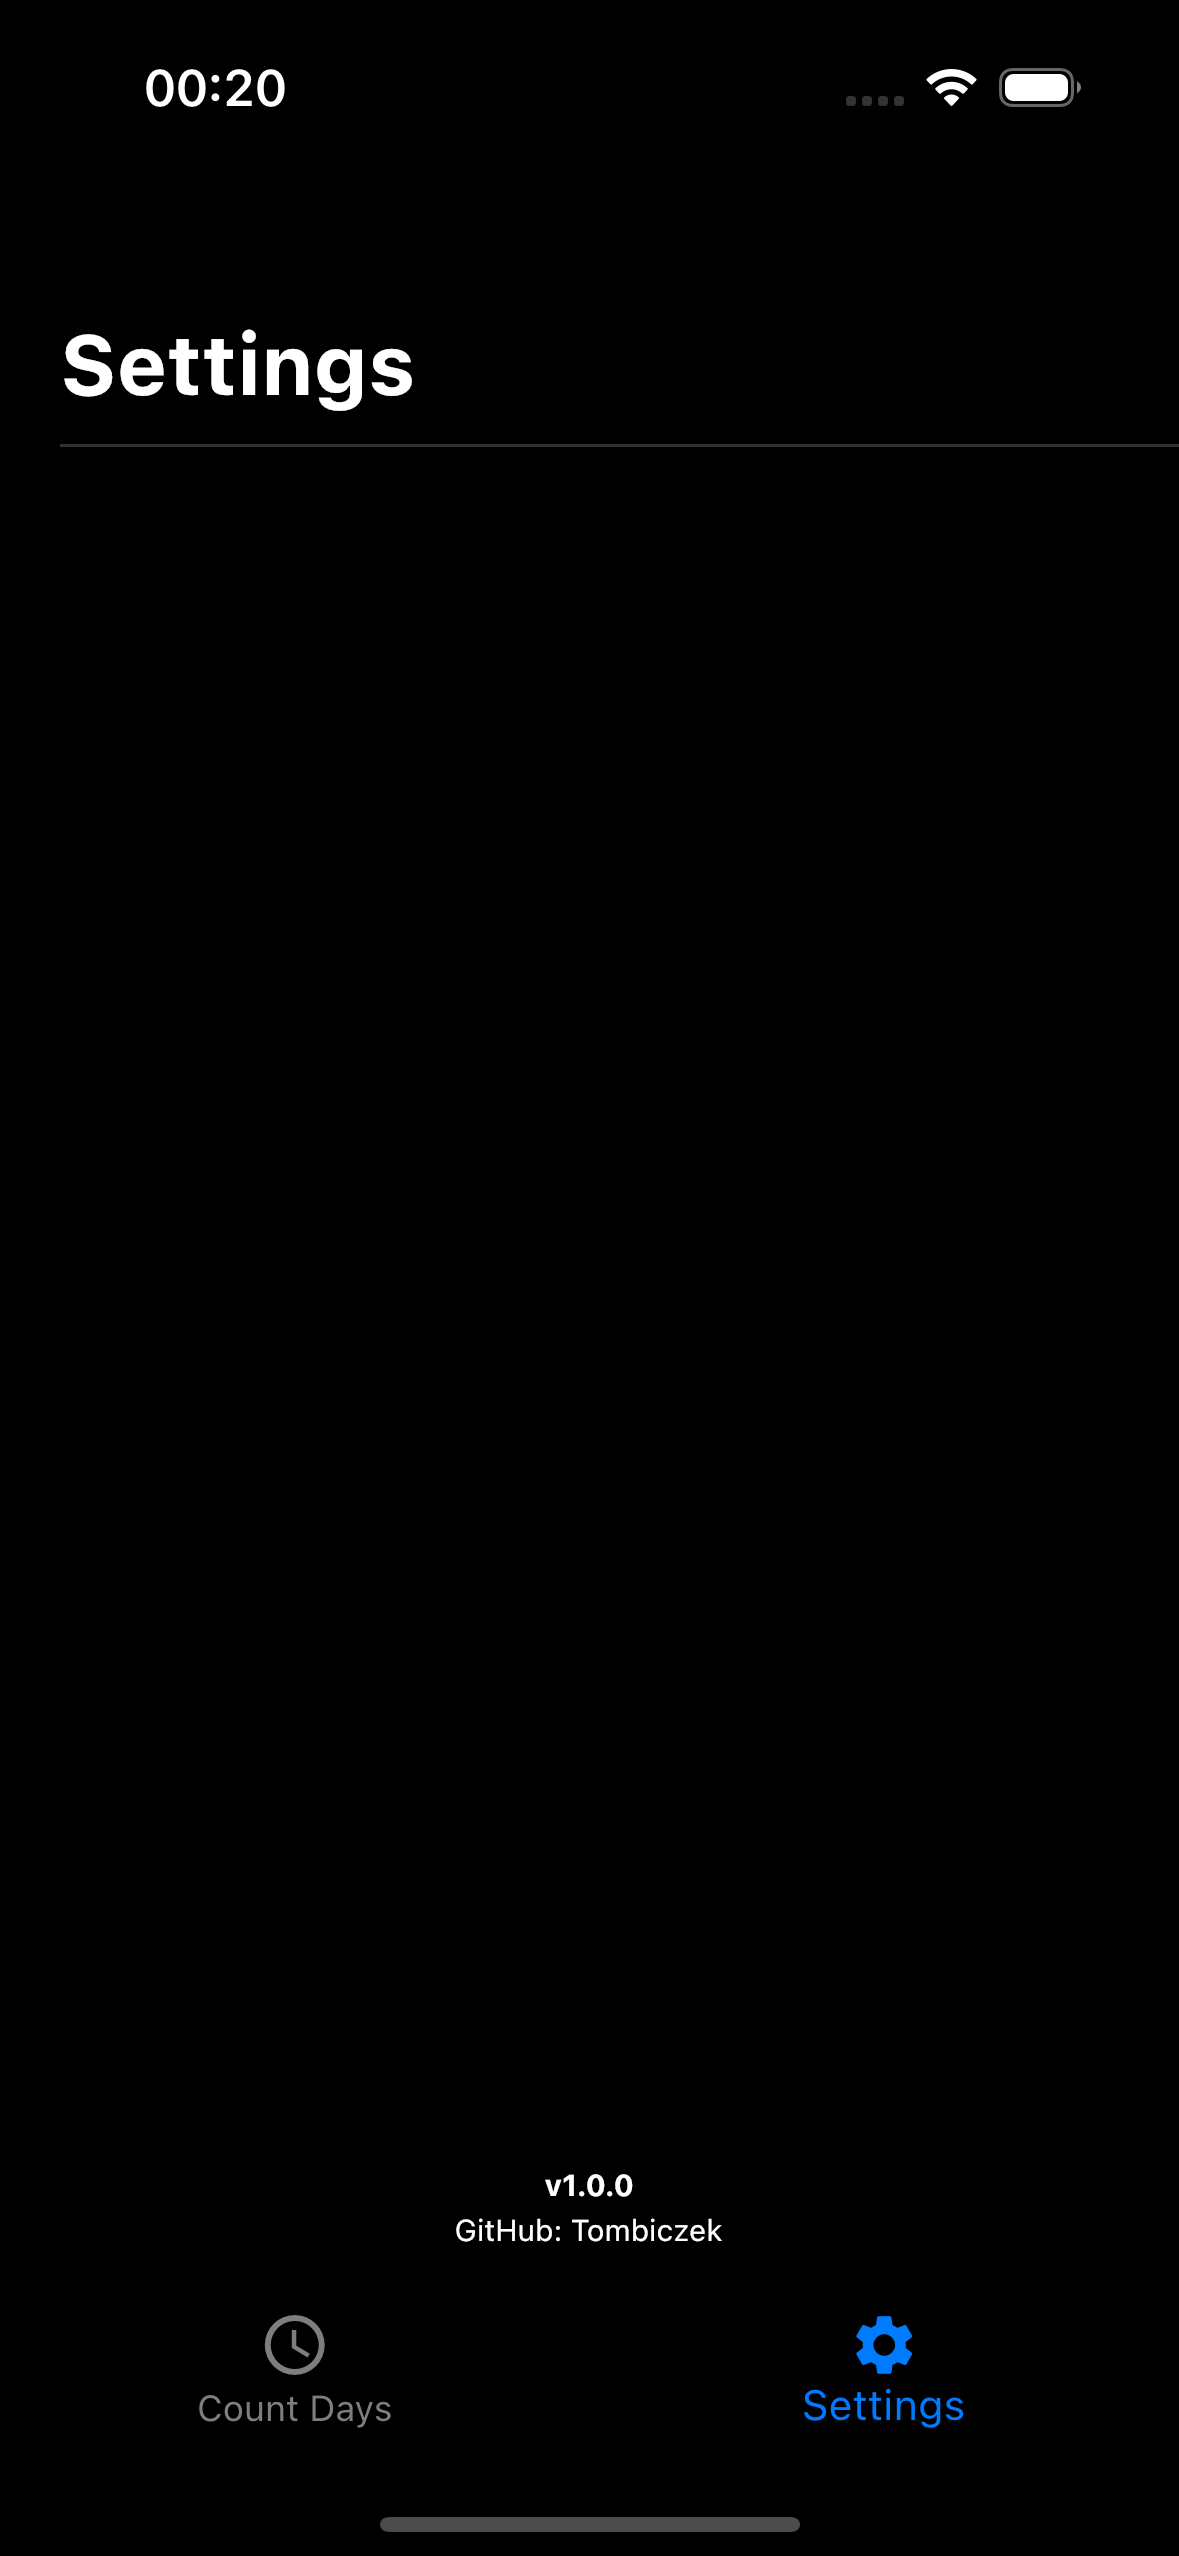
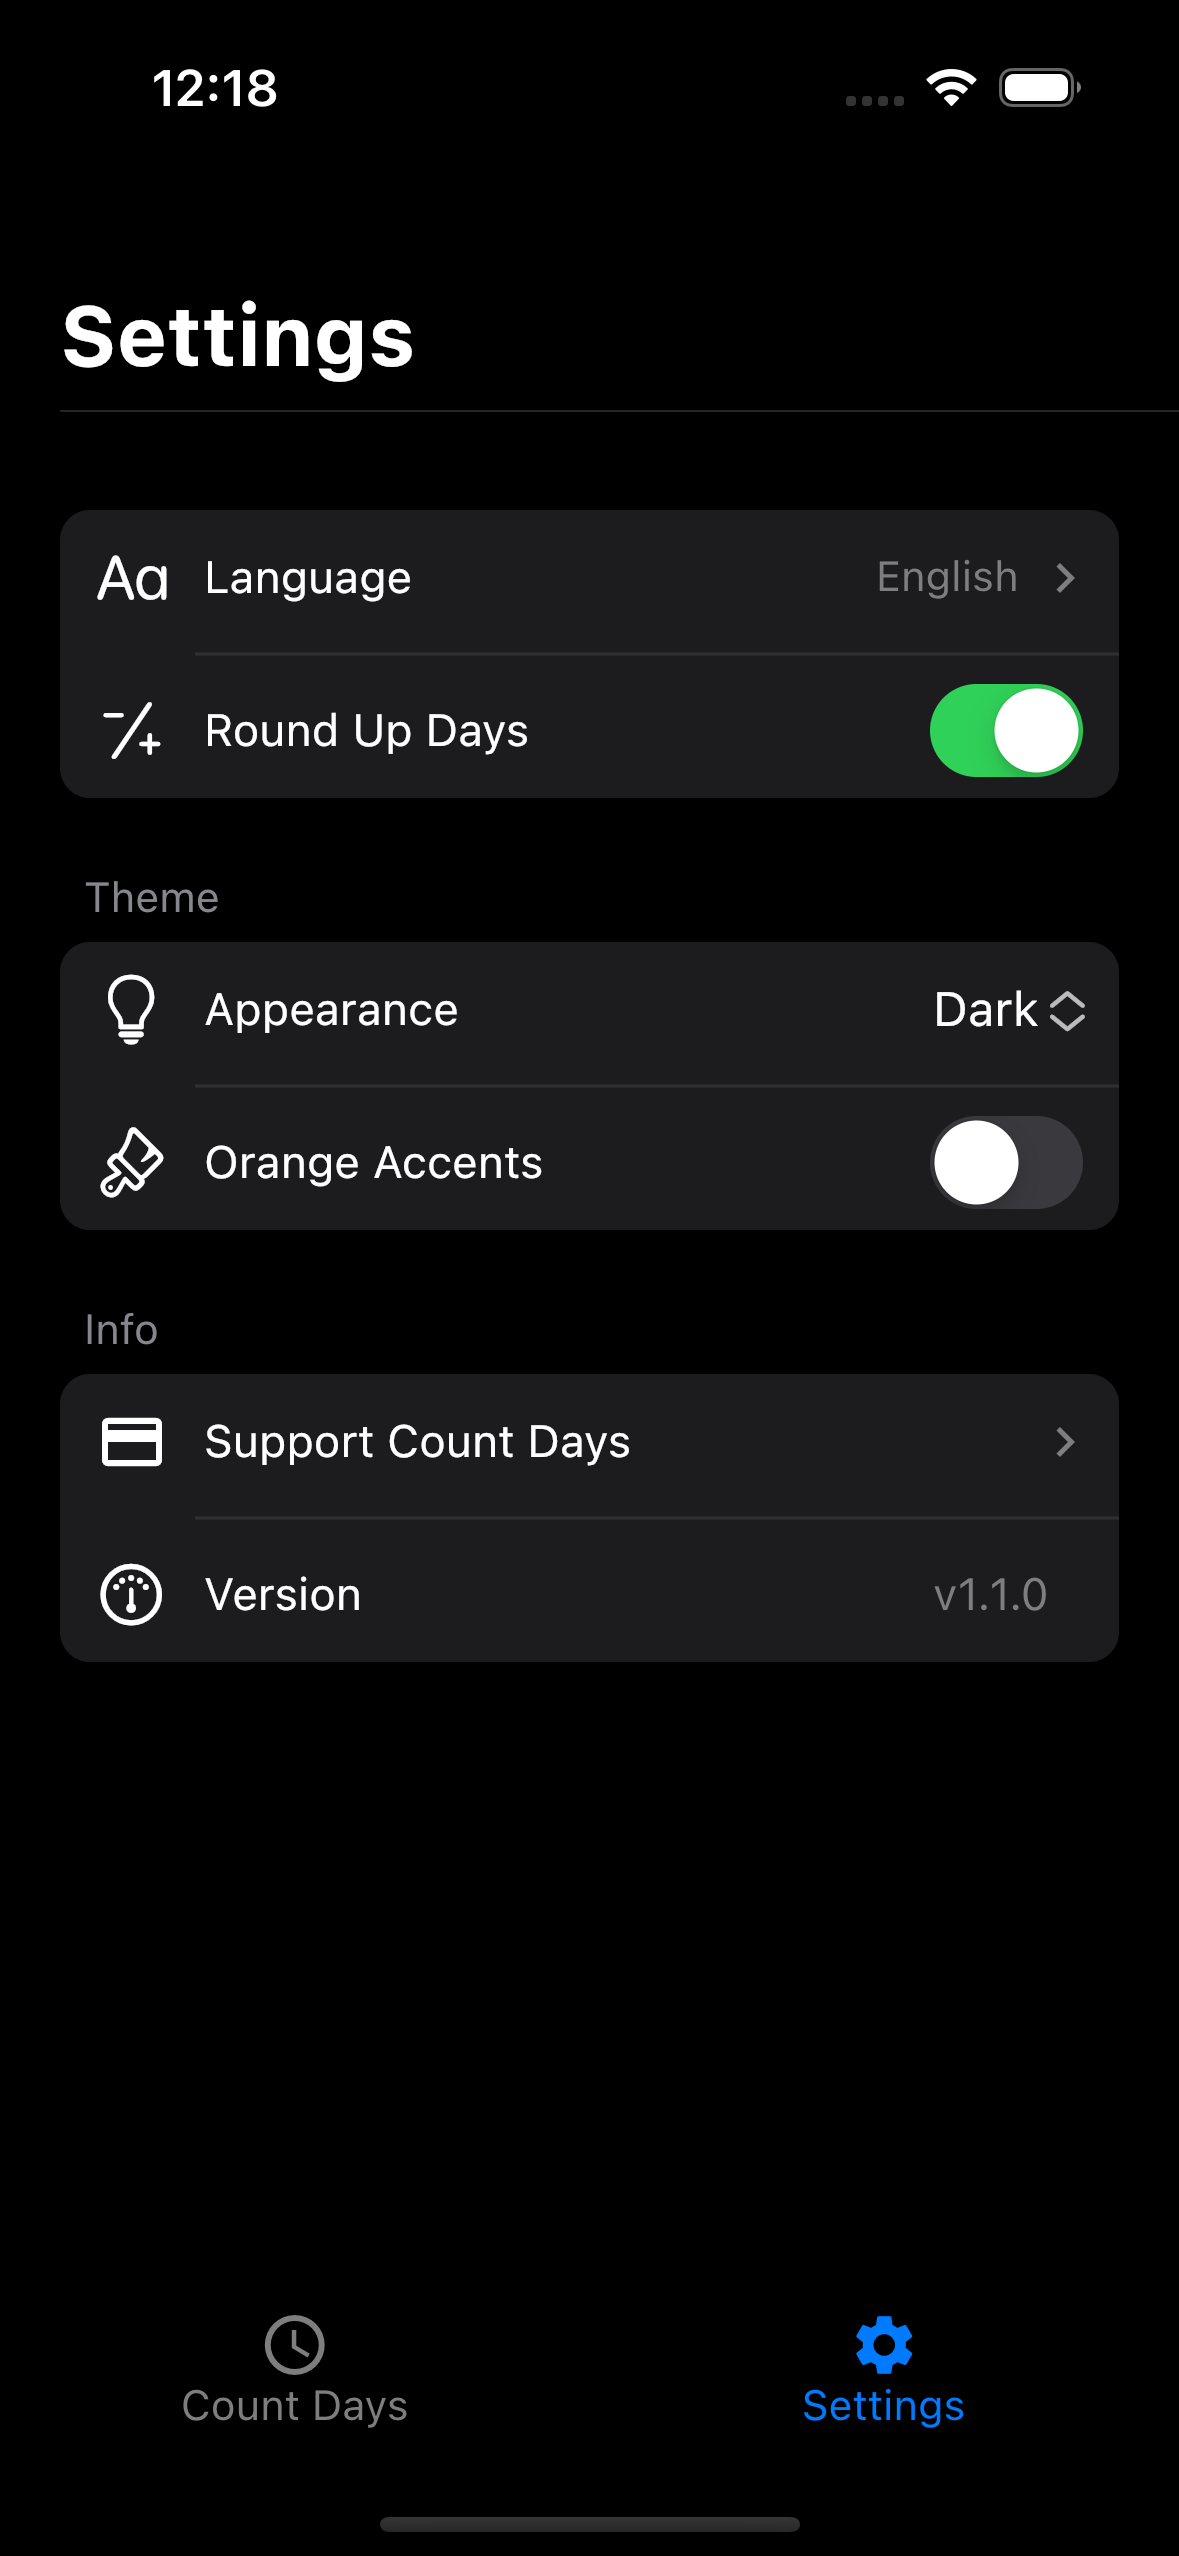
licencja i zmiana readme

diff --git a/lib/countdown_widget.dart b/lib/countdown_widget.dart
@@ -44,7 +44,7 @@ class _CountdownWidgetState extends State<CountdownWidget> {
     super.initState();
       remainingTime = widget.dateInit.difference(DateTime.now());
       totalTime = widget.dateInit.difference(widget.dateStart);
-    // remainingTime = DateTime(2023, 12, 12, 14, 32, 45).difference(DateTime.now());
+    // DateTime(2023, 12, 12, 14, 32, 45)
     _timer = Timer.periodic(const Duration(seconds: 1), (Timer timer) {
       setState(() {
         remainingTime = widget.dateInit.difference(DateTime.now());

diff --git a/README.md b/README.md
@@ -21,8 +21,7 @@
   * [Room for Improvement](#room-for-improvement)
   * [License](#license)
 
-# Licznik App in Dart
-"Licznik" is Polish for counter. <br>
+# Count Days App in Dart
 
 The main aim of this application is to count time to a set date.
 
@@ -34,10 +33,10 @@ The project is created with:
   * Xcode 15.0.1
   * VS Code 1.84.2
 
-And tested on iPhone 15 Pro (iOS 17.2).
+And tested on various models running iOS < 17.0.
 
 ## What is this?
-The only feature of this app is counting to a given date, which has to be in the future. You can add only one timer, you are able to give it a name and see how much time has passed based on a percentage value. If the title field is left empty, there will be given a default name to the timer representing a date to which the countdown is set. Plus you are now able to set a custom start date.
+The only feature of this app is counting to a given date, which has to be in the future. You can add only one timer, you are able to give it a name and see how much time has passed based on a percentage value. If the title field is left empty, there will be given a default name to the timer representing a date to which the countdown is set. Plus you are now able to set a custom start date, and change available themes.
 
 ### Start Screen
 To add the timer, you only have to tap somewhere on the screen.<br>
@@ -58,7 +57,12 @@ Deleting the timer will get you back to the start screen. <br>
 
 ### Timer Set With Title
 Here we can see that the title was set. <br>
-<img src="screenshots/timer_w_title.png" width="300"/>
+Also below are the different combinations of different themes available in this verison. Note that changing the theme affects every page in this application.
+<p align="center">
+  <img src="screenshots/timer_w_title.png" width="200" />
+  <img src="screenshots/light_mode.png" width="200" /> 
+  <img src="screenshots/light_orange.png" width="200" />
+</p>
 
 ### Set a Start Date
 In this setting you can actually choose a custom start date, if you want to get acurate percetage and forgot to start your timer earlier. <br>
@@ -70,14 +74,20 @@ This is what appears to the user after the timer has finished <br>
 <img src="screenshots/timer_finish.png" width="300"/>
 
 ### Settings
-The setting page is not yet implemented.<br>
+The setting allows you to customize how you want to see the number of days left (rounded up or not). It lets you change the theme between light, dark, and system. It also allows you to change the accent color from blue to orange. This will also have an effect on the percentage bar gradient. Below, there is a button leading to the support count days page, inside which you can leave a small tip for me (the developer).<br>
 <img src="screenshots/Settings.png" width="300"/>
 
 ## Install
 To install the app on your iPhone, you will need a computer running MacOS with installed Flutter, CocoaPods, and Xcode. Additionally, you will need an Apple ID or an Apple Developer account. More detailed instructions on how to do it are [here](https://www.geeksforgeeks.org/how-to-install-flutter-app-on-ios/).
 
 ## Contributing
-Pull requests are welcome. For major changes, please open an issue first to discuss what you would like to change.
+
+Thank you for your interest in contributing to this project. However, please note that this software is not open source, and contributions are not accepted through pull requests.
+
+If you encounter issues or have suggestions, feel free to open an issue to discuss them. For any major changes or feature requests, please contact the project owner or maintainers directly.
+
+This project is commercially licensed, and reproduction, distribution, or modification of the code for public or private use is strictly prohibited without explicit permission. For inquiries about licensing, support, or other matters, please contact me.
+
 
 ## Project Status
 **Project Status:** Completed, but additional features will be rolling out in the coming releases.
@@ -85,13 +95,9 @@ Pull requests are welcome. For major changes, please open an issue first to disc
 ## Room for Improvement
 
 To-do:
-  * Create a buy me a coffie page with confetti
+  * Make Tip Buttons work
   * Add support for polish language
   * Add support for system-theme change
   * Support notifications
   * Support widgets
   * Possibly in the distance future add support for more timers
-
-
-## License
-[GNU GPLv3](https://choosealicense.com/licenses/gpl-3.0/)

diff --git a/LICENSE.md b/LICENSE.md
@@ -1,0 +1,46 @@
+# END-USER LICENSE AGREEMENT (EULA)
+
+**IMPORTANT: READ CAREFULLY BEFORE INSTALLING OR USING THIS SOFTWARE.**
+
+This End-User License Agreement ("EULA") is a legal agreement between you (either an individual or a single entity) and Count Days ("Licensor") for the software product identified above, which includes computer software and may include associated media, printed materials, and "online" or electronic documentation ("Software").
+
+By installing, copying, or otherwise using the Software, you agree to be bound by the terms of this EULA. If you do not agree to the terms of this EULA, do not install or use the Software.
+
+## 1. LICENSE GRANT.
+
+Licensor grants you a non-exclusive, non-transferable license to use the Software for your internal business purposes in accordance with the terms and conditions of this EULA.
+
+## 2. RESTRICTIONS.
+
+You may not:
+   a. Modify, adapt, translate, reverse engineer, decompile, disassemble, or create derivative works based on the Software.
+   b. Rent, lease, lend, or transfer the Software to any third party.
+   c. Remove or alter any copyright, trademark, or other proprietary notices contained in the Software.
+
+## 3. SUPPORT AND UPDATES.
+
+Licensor may provide support and updates for the Software, at its discretion. Additional fees may apply for such services.
+
+## 4. PAYMENT.
+
+You agree to pay the applicable fees for the Software in accordance with the terms specified by Licensor.
+
+## 5. WARRANTY DISCLAIMER.
+
+THE SOFTWARE IS PROVIDED "AS IS" WITHOUT WARRANTY OF ANY KIND, EITHER EXPRESSED OR IMPLIED, INCLUDING, BUT NOT LIMITED TO, THE IMPLIED WARRANTIES OF MERCHANTABILITY AND FITNESS FOR A PARTICULAR PURPOSE.
+
+## 6. LIMITATION OF LIABILITY.
+
+TO THE MAXIMUM EXTENT PERMITTED BY APPLICABLE LAW, IN NO EVENT SHALL LICENSOR BE LIABLE FOR ANY SPECIAL, INCIDENTAL, INDIRECT, OR CONSEQUENTIAL DAMAGES WHATSOEVER (INCLUDING, WITHOUT LIMITATION, DAMAGES FOR LOSS OF BUSINESS PROFITS, BUSINESS INTERRUPTION, LOSS OF BUSINESS INFORMATION, OR ANY OTHER PECUNIARY LOSS) ARISING OUT OF THE USE OF OR INABILITY TO USE THE SOFTWARE, EVEN IF LICENSOR HAS BEEN ADVISED OF THE POSSIBILITY OF SUCH DAMAGES.
+
+## 7. TERMINATION.
+
+This EULA is effective until terminated. Licensor may terminate this EULA immediately without notice if you breach any of its terms.
+
+## 8. MISCELLANEOUS.
+
+This EULA constitutes the entire agreement between you and Licensor regarding the Software and supersedes all prior or contemporaneous oral or written communications, proposals, and representations with respect to the Software.
+
+Count Days, <br/>
+2002tomo@gmail.com <br/>
+22.12.2023
